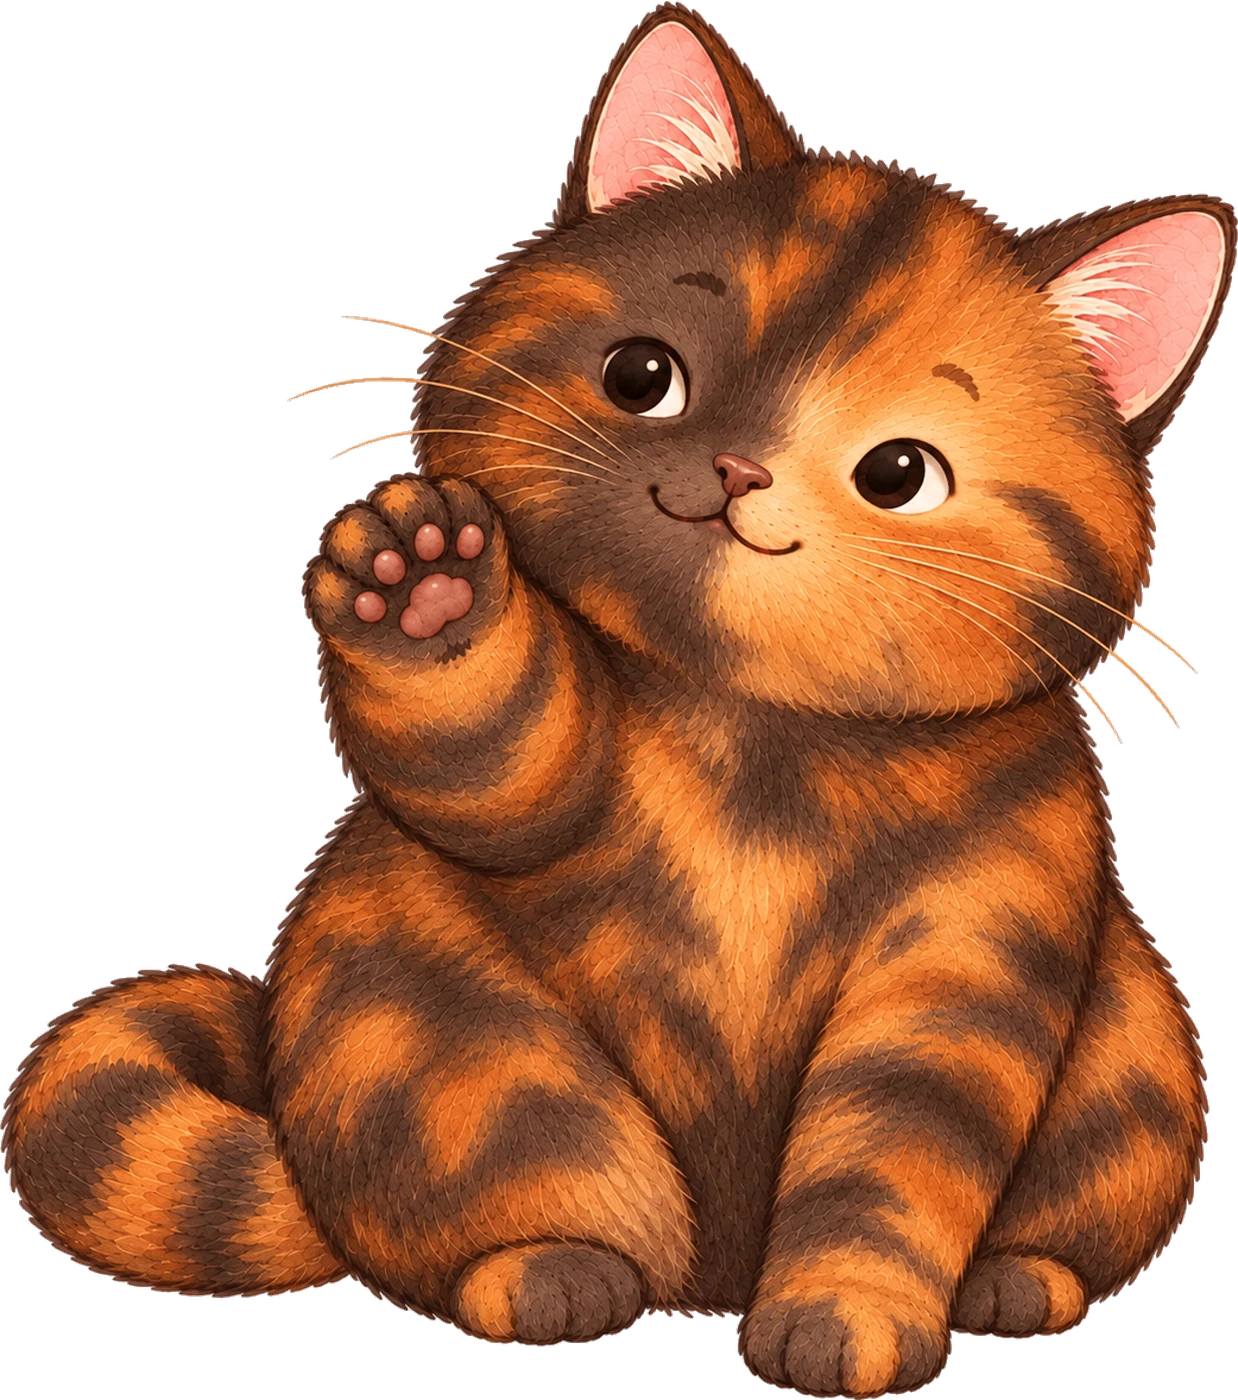
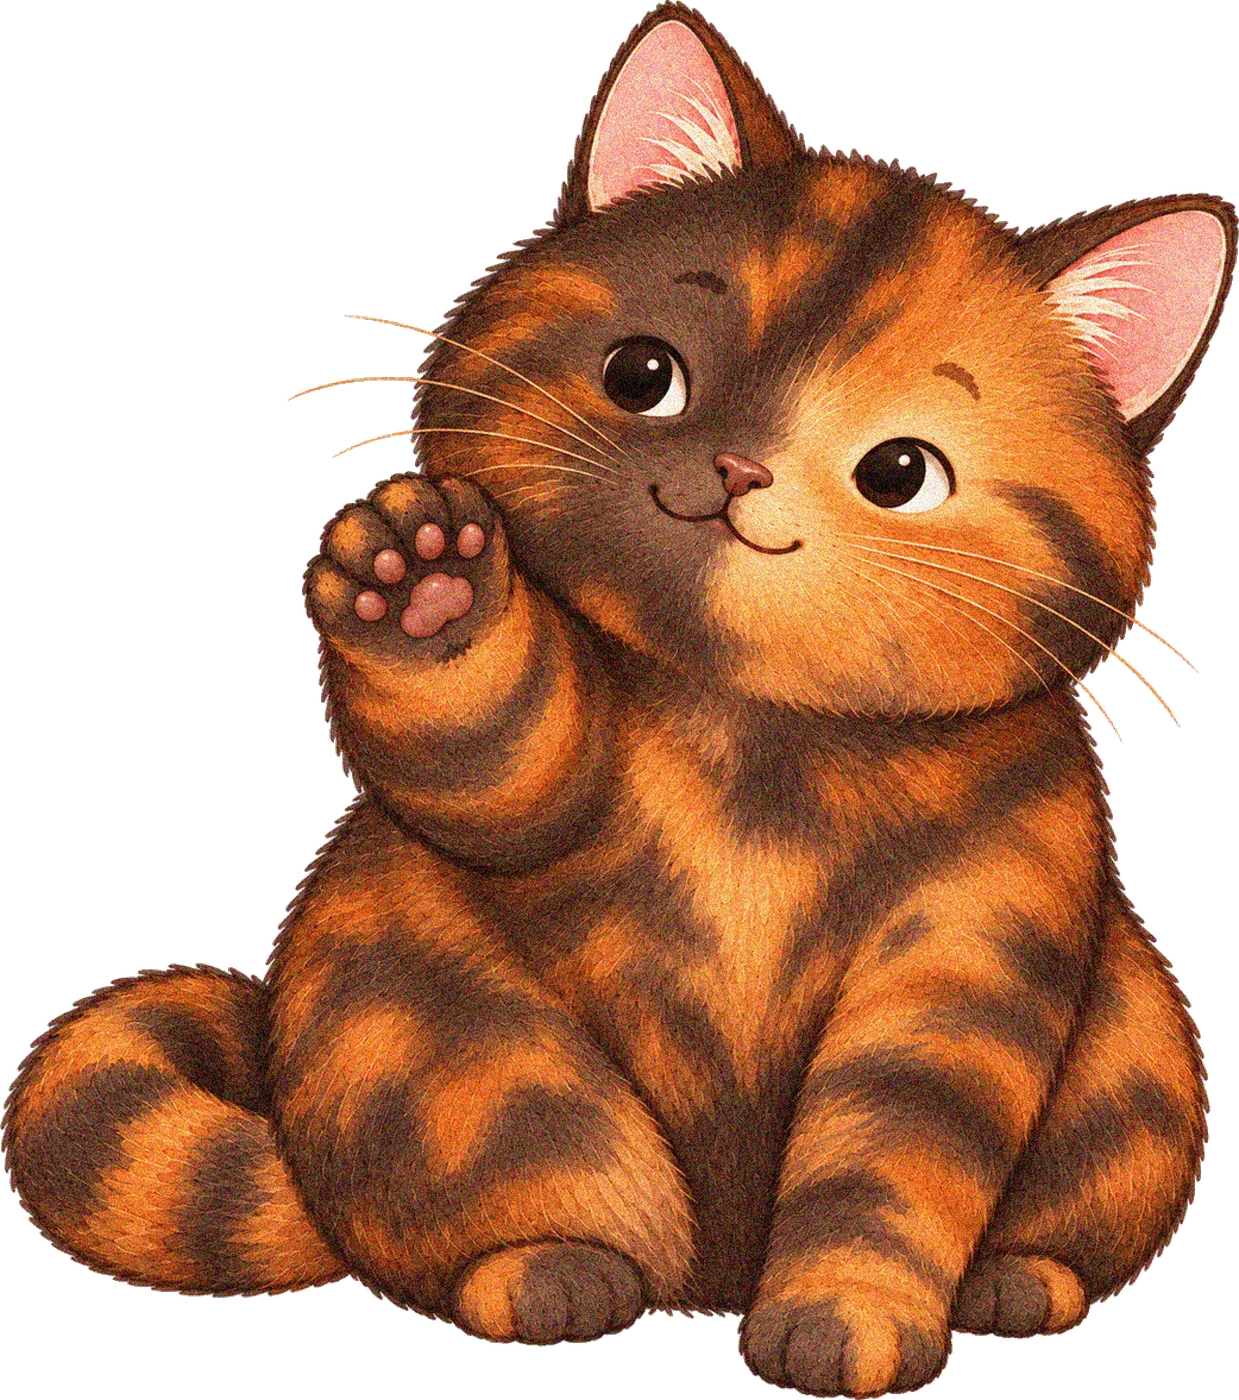
Add film grain to day-trip selfies; breathing on more resting poses
Regenerate all 27 cat-selfie polaroids from updated raw art with more
grain, so they read closer to an actual photo. Also extend the gentle
breathing scale-pulse (previously sleep-only) to every other resting
pose -- sit, lie, peer, belly1, belly2, soak -- so cats in those spots
read as idle and alive rather than a still photo, without borrowing
the toy-like wobble animation.

Claude-Session: https://claude.ai/code/session_01E7v64VRdhvH8oCgXhRmXMK

Changed region(s): [[0.0, 0.0, 1.0, 1.0]]

diff --git a/index.html b/index.html
@@ -869,6 +869,8 @@
     return `<div class="thumb">${tf ? `<div class="thumb-fx" style="transform:${tf}">${inner}</div>` : inner}</div>`;
   };
   const catPortrait = (id, sil) => `<div class="portrait-cat${sil ? ' sil' : ''}"><img src="${art.cat(id, 'sit')}" alt=""></div>`;
+  // Poses still enough to read as "resting" rather than mid-action -- see catLayer's `breathes`.
+  const BREATHE_POSES = new Set(['sleep', 'sit', 'lie', 'peer', 'belly1', 'belly2', 'soak']);
   function catLayer(v, it) {
     const pose = v.pose || it.pose;
     const o = (it.offset && it.offset[v.cat]) || { x: 0, y: 0, s: 1 };
@@ -878,8 +880,12 @@
     // only pose that needs its own shadow -- every other pose sits on or in the item itself,
     // where the item's own shadow already covers the ground contact.
     const shadow = pose === 'lie' ? SHADOW_SVG : '';
+    // Resting poses get the same gentle breathing scale-pulse as sleep (see .breathe) -- active
+    // poses (head/ride/face peeking or riding, half/full eating, soaking mid-motion) are left still
+    // since a cat already doing something there doesn't also need an idle "alive" cue.
+    const breathes = BREATHE_POSES.has(pose);
     return `<div class="cat-layer${v.fresh ? ' cat-in' : ''}" style="left:${x - w * 0.5}%;top:${y - w * 0.97}%;width:${w}%">` +
-      shadow + `<img class="${pose === 'sleep' ? 'breathe' : ''}" src="${art.cat(v.cat, pose)}" alt=""></div>`;
+      shadow + `<img class="${breathes ? 'breathe' : ''}" src="${art.cat(v.cat, pose)}" alt=""></div>`;
   }
 
   /* ---------- Visiting logic (same rules as the yard, now per room) ---------- */
